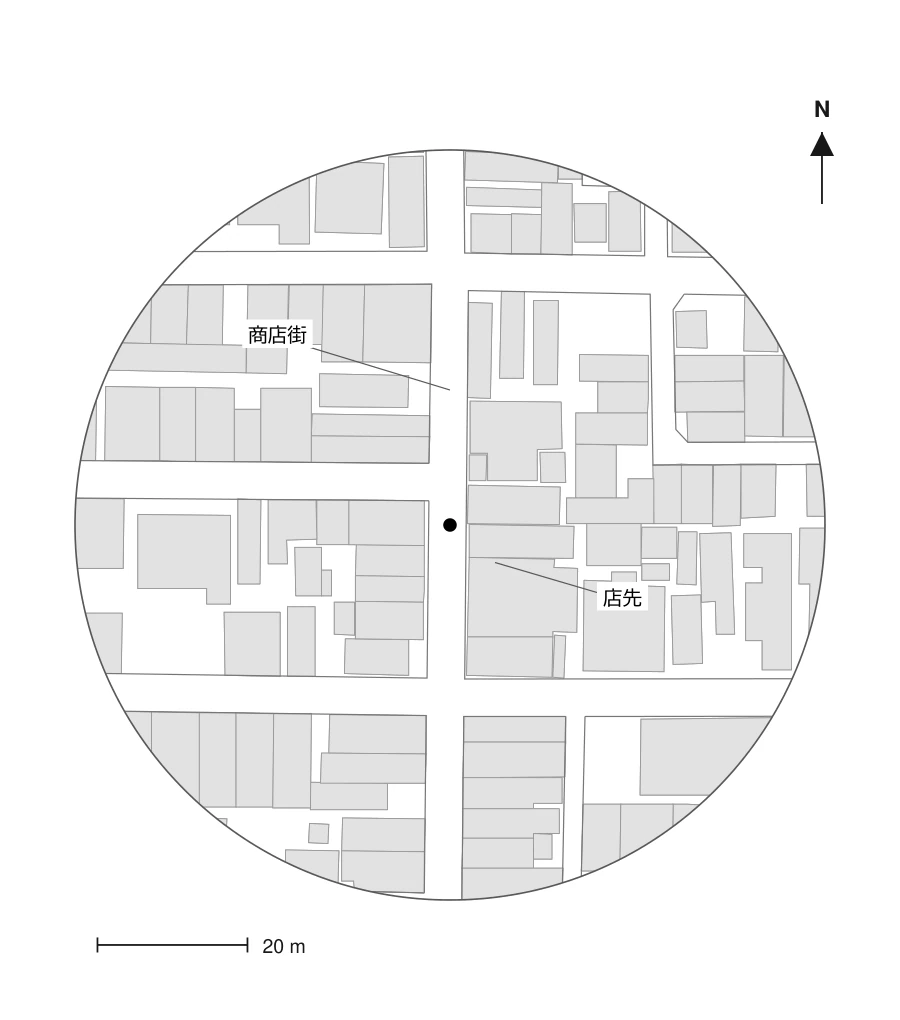
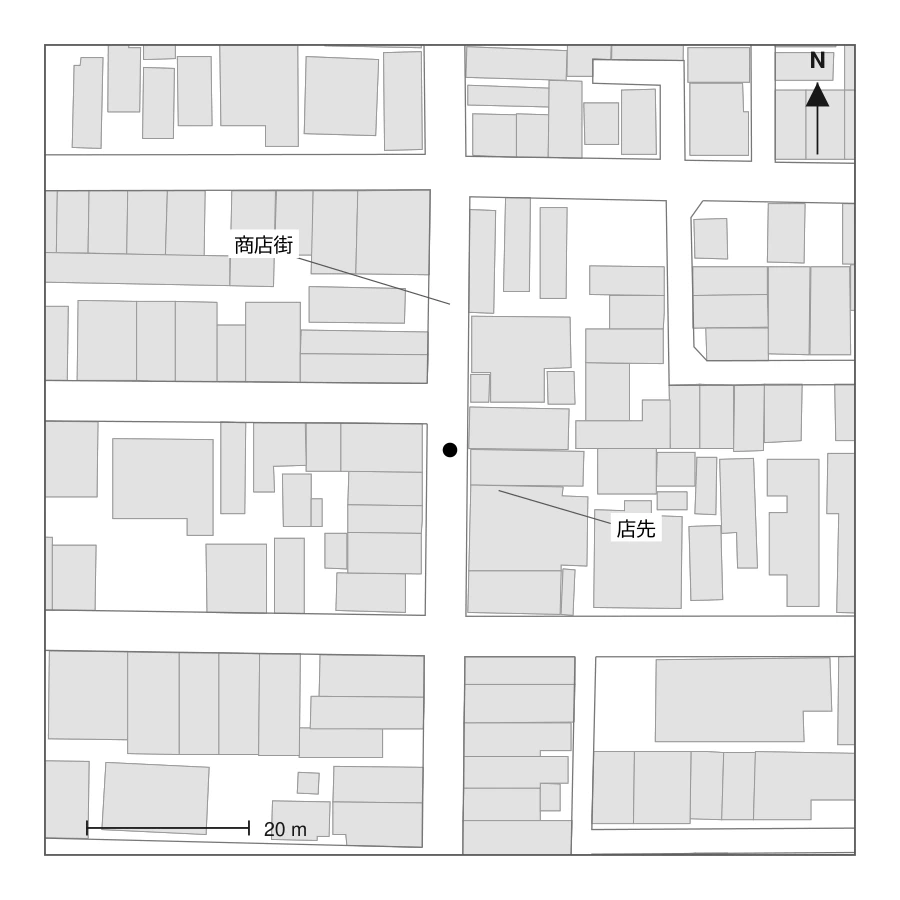
作品画面の地図とコメント導線を改善

diff --git a/laundry-store.js b/laundry-store.js
@@ -257,26 +257,22 @@
       (comments.length ? comments.map(function (comment) {
         return '<p class="comment' + (comment.mine ? ' is-mine' : '') + '"><span>' + escapeHtml(comment.text || comment.comment || '') + '</span><small>' + (comment.mine ? 'あなたのコメント' : '匿名') + '</small></p>';
       }).join('') : '<p class="comment-empty">まだコメントはありません。</p>') +
-      '</div><form id="workCommentForm" class="comment-form"><label><span>コメントを残す</span><textarea name="comment" maxlength="500" rows="3" required></textarea></label><button class="button" type="submit">送信する</button><p id="workCommentStatus" class="form-status" role="status" aria-live="polite"></p></form></div>';
+      '</div><button id="openCommentForm" class="button comment-open-button" type="button">コメントを残す</button></div>';
   }
 
   function updateDialogComments() {
     if (!activeWork) return;
     var current = dialogContent.querySelector('.comments');
     if (!current) return;
-    var draft = dialogContent.querySelector('#workCommentForm textarea');
-    var value = draft ? draft.value : '';
     var wrapper = document.createElement('div');
     wrapper.innerHTML = renderComments(stateFor(activeWork.id));
     current.replaceWith(wrapper.firstElementChild);
-    var nextDraft = dialogContent.querySelector('#workCommentForm textarea');
-    if (nextDraft) nextDraft.value = value;
-    bindInlineCommentForm();
+    bindCommentButton();
   }
 
-  function bindInlineCommentForm() {
-    var commentForm = document.getElementById('workCommentForm');
-    if (commentForm) commentForm.addEventListener('submit', addWorkComment);
+  function bindCommentButton() {
+    var button = document.getElementById('openCommentForm');
+    if (button) button.addEventListener('click', openCommentForm);
   }
 
   function renderPlaceholderDialog(entry) {
@@ -302,7 +298,7 @@
     var areaMapImage = activeWork.areaMap && activeWork.areaMap.image ? '<img class="detailed-map-image" src="' + escapeHtml(activeWork.areaMap.image) + '" alt="' + escapeHtml(activeWork.areaMap.imageAlt || activeWork.title + "の場所周辺図") + '">' : '';
     var areaMap = areaMapImage + notes.map(function (note) { return '<span class="map-note" style="--x:' + Number(note.x || 50) + '%;--y:' + Number(note.y || 50) + '%">' + escapeHtml(note.text) + '</span>'; }).join("");
     var areaMapClass = 'detailed-map' + (areaMapImage ? ' has-image' : '');
-    var photoPanel = '<button id="photoToggle" class="area-map-toggle photo-toggle" type="button" aria-expanded="false" aria-controls="photoPanel">写真を表示する</button><div id="photoPanel" class="photo-panel" hidden><div id="workGallery" class="work-gallery">' + gallery + '</div><div class="gallery-toolbar"><span id="galleryCounter" class="gallery-counter">1 / ' + images.length + '</span><div><button id="galleryPrev" type="button" aria-label="前の写真">←</button><button id="galleryNext" type="button" aria-label="次の写真">→</button></div></div></div>';
+    var photoPanel = '<details class="photo-disclosure"><summary><span>写真を見る</span><small>' + images.length + '枚</small></summary><div class="photo-panel"><div id="workGallery" class="work-gallery">' + gallery + '</div><div class="gallery-toolbar"><span id="galleryCounter" class="gallery-counter">1 / ' + images.length + '</span><div><button id="galleryPrev" type="button" aria-label="前の写真">←</button><button id="galleryNext" type="button" aria-label="次の写真">→</button></div></div></div></details>';
     var mapPanel = '<button id="areaMapToggle" class="area-map-toggle" type="button" aria-expanded="true" aria-controls="areaMapPanel">周辺図を閉じる</button><div id="areaMapPanel" class="area-map-panel"><div class="' + areaMapClass + '" role="group" aria-label="' + escapeHtml(title) + 'の場所周辺図">' + areaMap + '</div></div>';
     var audioPlayer = !english && activeWork.audioUrl ? '<audio class="work-recording" src="' + escapeHtml(activeWork.audioUrl) + '" controls preload="none" aria-label="' + escapeHtml(activeWork.title) + 'の朗読"></audio>' : '';
     dialogContent.innerHTML = dialogNumberHtml(entry) + '<div class="work-language"><button id="workLanguageToggle" type="button" lang="' + (english ? 'ja' : 'en') + '">' + (english ? '日本語' : 'English') + '</button></div><h2 id="dialogTitle">' + escapeHtml(title) + '</h2><p class="dialog-place">' + escapeHtml(place) + '</p>' + mapPanel + photoPanel + (summary ? '<p class="dialog-summary">' + escapeHtml(summary) + '</p>' : '') + audioPlayer + '<div class="script" lang="' + (english ? 'en' : 'ja') + '"><h3>' + (english ? 'Text' : 'テキスト') + '</h3>' + scriptText.map(function (paragraph) { return '<p>' + escapeHtml(paragraph) + '</p>'; }).join("") + '</div><section class="reactions"><button id="likeButton" class="like-button' + (state.liked ? ' is-liked' : '') + '" type="button" aria-pressed="' + state.liked + '">♡ <strong>' + (state.liked ? 'いいね済み' : 'いいね') + '</strong><span>' + state.likeCount + '</span>' + (state.syncing ? '<small>保存中</small>' : '') + '</button></section>' + renderComments(state) + dialogNavigationHtml(entry);
@@ -311,10 +307,9 @@
       dialogLanguage = english ? "ja" : "en";
       renderDialog();
     });
-    bindInlineCommentForm();
+    bindCommentButton();
     bindWorkNavigation();
     document.getElementById("areaMapToggle").addEventListener("click", toggleAreaMap);
-    document.getElementById("photoToggle").addEventListener("click", togglePhotoPanel);
     document.getElementById("galleryPrev").addEventListener("click", function () { moveGallery(-1); });
     document.getElementById("galleryNext").addEventListener("click", function () { moveGallery(1); });
     document.getElementById("workGallery").addEventListener("scroll", updateGalleryCounter);
@@ -355,15 +350,6 @@
     panel.hidden = expanded;
   }
 
-  function togglePhotoPanel(event) {
-    var button = event.currentTarget;
-    var panel = document.getElementById("photoPanel");
-    var expanded = button.getAttribute("aria-expanded") === "true";
-    button.setAttribute("aria-expanded", String(!expanded));
-    button.textContent = expanded ? "写真を表示する" : "写真を閉じる";
-    panel.hidden = expanded;
-  }
-
   function openWork(workId) {
     var entry = dialogEntries().find(function (item) { return item.work && item.work.id === workId; });
     openDialogEntry(entry);
@@ -397,30 +383,6 @@
       saveLikeOverrides();
       updateDialogReactionState();
       renderWorks();
-    });
-  }
-
-  function addWorkComment(event) {
-    event.preventDefault();
-    if (!activeWork) return;
-    var text = String(new FormData(event.currentTarget).get("comment") || "").trim();
-    if (!text) return;
-    var workId = activeWork.id;
-    if (!remote.works[workId]) remote.works[workId] = { likeCount: 0, liked: false, comments: [] };
-    if (!Array.isArray(remote.works[workId].comments)) remote.works[workId].comments = [];
-    var pendingComment = { text: text, mine: true };
-    remote.works[workId].comments.push(pendingComment);
-    updateDialogComments();
-    var status = document.getElementById("workCommentStatus");
-    if (status) status.textContent = "コメントを送信しました。";
-    post({ action: "addComment", workId: workId, comment: text }).then(function () {
-      setTimeout(loadRemote, 700);
-      setTimeout(loadRemote, 2400);
-    }).catch(function (error) {
-      remote.works[workId].comments = remote.works[workId].comments.filter(function (comment) { return comment !== pendingComment; });
-      updateDialogComments();
-      var failedStatus = document.getElementById("workCommentStatus");
-      if (failedStatus) failedStatus.textContent = error.message;
     });
   }
 

diff --git a/laundry.css b/laundry.css
@@ -271,10 +271,7 @@ h1 span {
 .comment span, .comment small { display: block; }
 .comment small { margin-top: 5px; color: var(--muted); font-size: .65rem; }
 .comment-empty { color: var(--muted); font-size: .78rem; }
-.comment-form { display: grid; gap: 10px; margin-top: 20px; }
-.comment-form label span { display: block; margin-bottom: 6px; color: var(--violet-dark); font-family: var(--font-ui); font-size: .78rem; }
-.comment-form textarea { width: 100%; padding: 11px; border: 1px solid var(--line-strong); resize: vertical; }
-.comment-form .button { justify-self: start; }
+.comment-open-button { margin-top: 18px; }
 .about-project-section p { color: var(--text-soft); }
 .about-project-section .muted { color: var(--muted); font-size: 0.86rem; }
 
@@ -292,7 +289,14 @@ h1 span {
 .gallery-toolbar div { display: flex; gap: 7px; }
 .gallery-toolbar button { width: 40px; height: 36px; border: 1px solid var(--line-strong); background: #fff; cursor: pointer; }
 .gallery-counter { color: var(--muted); font-size: .72rem; }
-.photo-panel { margin-top: 10px; }
+.photo-disclosure { margin-top: 22px; border-top: 1px solid var(--line); border-bottom: 1px solid var(--line); }
+.photo-disclosure summary { display: flex; align-items: center; gap: 10px; min-height: 48px; padding: 4px 2px; list-style: none; color: var(--violet-dark); font-family: var(--font-ui); cursor: pointer; }
+.photo-disclosure summary::-webkit-details-marker { display: none; }
+.photo-disclosure summary small { color: var(--muted); font-size: .7rem; }
+.photo-disclosure summary::after { content: "+"; margin-left: auto; font: 400 1.1rem/1 Arial, sans-serif; }
+.photo-disclosure[open] summary::after { content: "−"; }
+.photo-disclosure summary:focus-visible { outline: 2px solid var(--violet-dark); outline-offset: 3px; }
+.photo-panel { padding: 4px 0 18px; }
 .area-map-toggle { width: 100%; display: flex; justify-content: space-between; margin: 22px 0 0; padding: 13px 15px; border: 1px solid var(--line-strong); background: #fff; color: var(--violet-dark); cursor: pointer; }
 .area-map-toggle::after { content: "+"; }
 .area-map-toggle[aria-expanded="true"]::after { content: "−"; }
@@ -302,7 +306,7 @@ h1 span {
 .detailed-map::before, .detailed-map::after { content: ""; position: absolute; background: rgba(255,255,255,.85); border: 1px solid rgba(77,71,127,.16); }
 .detailed-map::before { width: 42%; height: 24%; left: 5%; top: 9%; }
 .detailed-map::after { width: 30%; height: 30%; right: 7%; bottom: 8%; }
-.detailed-map.has-image { min-height: 0; aspect-ratio: 15 / 17; background: #fff; }
+.detailed-map.has-image { min-height: 0; aspect-ratio: 1; background: #fff; }
 .detailed-map.has-image::before, .detailed-map.has-image::after { display: none; }
 .detailed-map-image { position: absolute; inset: 0; width: 100%; height: 100%; object-fit: cover; }
 .map-note { position: absolute; z-index: 2; left: var(--x); top: var(--y); max-width: 150px; padding: 5px 8px; transform: translate(-50%,-50%); border: 1px solid var(--line-strong); background: rgba(255,255,255,.94); color: var(--violet-dark); font-size: .68rem; line-height: 1.4; }

diff --git a/laundry.html b/laundry.html
@@ -6,7 +6,7 @@
   <meta name="description" content="まちの場所にまつわる記憶を、短い戯曲と朗読にして共有するプロジェクト">
   <title>ランドリーシアター｜プラントショップ</title>
   <link rel="canonical" href="https://www.plantshop.work/laundry.html">
-  <link rel="stylesheet" href="laundry.css?v=20261107-2">
+  <link rel="stylesheet" href="laundry.css?v=20261107-3">
   <link rel="stylesheet" href="laundry-poster.css?v=20261107-10">
 </head>
 <body class="poster-page">
@@ -54,7 +54,7 @@
   </main>
   <footer class="poster-footer"><a class="project-site-link" href="laundry.html#stores"><span>プロジェクトサイト</span><small>ランドリーシアターの開催店舗はこちら</small><small lang="en">Project website / Theater locations</small></a><a class="organizer-credit" href="index.html"><span>企画・運営</span><img src="assets/laundry/plantshop-logo.png" alt="プラントショップ" width="120" height="39" loading="lazy"></a><a href="https://maps.gsi.go.jp/development/vt.html" class="map-credit">地図：地理院地図Vector提供実験</a></footer>
   <script src="data/laundry-works.js?v=20261107-1"></script>
-  <script src="data/laundry-waiting-room.js?v=20261107-11"></script>
+  <script src="data/laundry-waiting-room.js?v=20261107-12"></script>
   <script src="laundry.js?v=20261107-2"></script>
 </body>
 </html>

diff --git a/laundry-store.html b/laundry-store.html
@@ -5,7 +5,7 @@
   <meta name="viewport" content="width=device-width, initial-scale=1.0">
   <meta name="description" content="このランドリーの周辺のまちにまつわる記憶をもとにつくった戯曲や朗読を、洗濯や乾燥を待ちながら楽しめます。">
   <title>店舗｜ランドリーシアター</title>
-  <link rel="stylesheet" href="laundry.css?v=20261107-2">
+  <link rel="stylesheet" href="laundry.css?v=20261107-3">
   <link rel="stylesheet" href="laundry-poster.css?v=20261107-10">
 </head>
 <body class="store-page poster-store-page">
@@ -142,9 +142,9 @@
   </dialog>
 
   <script src="data/laundry-works.js?v=20261107-1"></script>
-  <script src="data/laundry-waiting-room.js?v=20261107-11"></script>
+  <script src="data/laundry-waiting-room.js?v=20261107-12"></script>
   <script src="data/laundry-area-maps.js?v=20261107-7"></script>
   <script src="laundry-area-maps.js?v=20261107-7"></script>
-  <script src="laundry-store.js?v=20261107-10"></script>
+  <script src="laundry-store.js?v=20261107-11"></script>
 </body>
 </html>

diff --git a/data/laundry-waiting-room.js b/data/laundry-waiting-room.js
@@ -61,7 +61,7 @@ window.LAUNDRY_WAITING_ROOM_DATA = {
         id: store.id + "-" + locationId,
         number: String(index + 1),
         areaMap: {
-          image: "assets/laundry/works/maps/location-" + locationId + ".webp",
+          image: "assets/laundry/works/maps/location-" + locationId + ".webp?v=20261107-2",
           imageAlt: source.place + "を中心とした周囲50mの地図"
         },
         images: Array.from({ length: photoCount }, function (_, photoIndex) {
